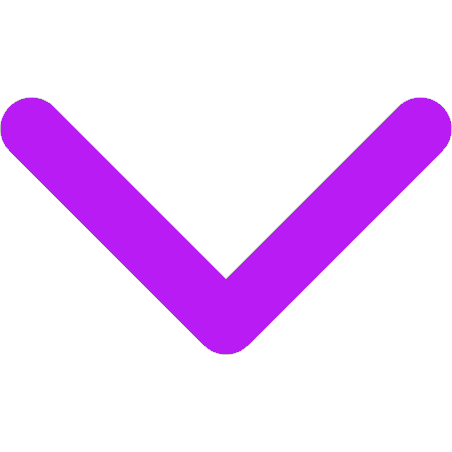
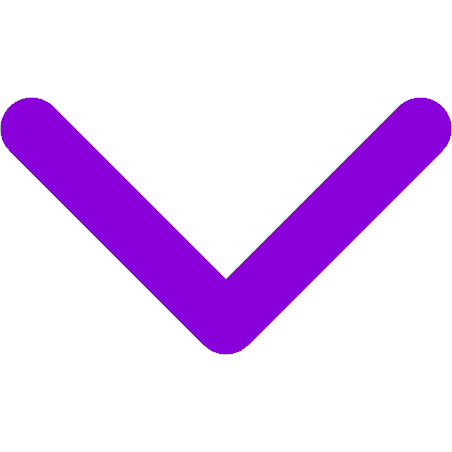
change arrows' color when attending

Changed region(s): [[0.0, 0.2168, 1.0, 0.8053]]

diff --git a/Frood/www/scripts/application.js b/Frood/www/scripts/application.js
@@ -10,7 +10,8 @@ angular.module('SteroidsApplication', [
           loc: "The Lakefill",
           time: "Sep 30, 6:00 p.m.",
           foodType: "BBQ",
-          icon:"images/bbq.png",
+          icon: "images/bbq.png",
+          arrow: "down.png",
           desc: "Come join Graduate EECS for friends and food at the Lakefill",
           fbUrl: "https://www.facebook.com/events/1676750769228818/",
           show: false,
@@ -22,7 +23,8 @@ angular.module('SteroidsApplication', [
           loc: "Parkes Hall 034",
           time: "Oct 1, 8:45 p.m.",
           foodType: "Pizza",
-          icon:"images/pizza.png",
+          icon: "images/pizza.png",
+          arrow: "down.png",
           desc: "Come on Wednesdays to meet awesome people and learn one of the most beautiful dances in the world.",
           fbUrl: "https://www.facebook.com/events/1676750769228818/",
           show: false,
@@ -34,7 +36,8 @@ angular.module('SteroidsApplication', [
           loc: " University Library",
           time: "Sep 28, 10:00 a.m.",
           foodType: "Pizza",
-          icon:"images/pizza.png",
+          icon: "images/pizza.png",
+          arrow: "down.png",
           desc: "Find the Pokemon we've hidden around University Library and snap their pictures for a free T-Shirt.",
           fbUrl: "https://www.facebook.com/events/1676750769228818/",
           show: false,
@@ -46,7 +49,8 @@ angular.module('SteroidsApplication', [
           loc: "The Garage",
           time: "Sep 28, 7:00 p.m.",
           foodType: "Sushi",
-          icon:"images/sushi.png",
+          icon: "images/sushi.png",
+          arrow: "down.png",
           desc: "Know the basics but aren't too sure on how to make your beautiful website public to the world? Come to our first Hack Night of the year to get started with web development!",
           fbUrl: "https://www.facebook.com/events/1676750769228818/",
           show: false,
@@ -57,7 +61,8 @@ angular.module('SteroidsApplication', [
           loc: "Tech LR2",
           time: "Oct 10, 7:30 p.m.",
           foodType: "Chinese",
-          icon:"images/chinese.png",
+          icon: "images/chinese.png",
+          arrow: "down.png",
           desc: "Interested in a career at Boeing? Come check us out at our only Northwestern Info Session! Stop by to meet some of our team and some free Joyees!",
           fbUrl: "https://www.facebook.com/events/1676750769228818/",
           show: false,
@@ -85,4 +90,11 @@ angular.module('SteroidsApplication', [
     }
   }
 
+  $scope.changeArrowColor = function (ev) {
+      if (ev.arrow == "down.png") {
+          ev.arrow = "down2.png";
+      } else {
+          ev.arrow = "down.png";
+      }
+  }
 });

diff --git a/Frood/www/index.html b/Frood/www/index.html
@@ -84,7 +84,7 @@
             </div>
 
             <div>
-                <button ng-click="going = !going; (going)?event.attending = event.attending + 1:event.attending = event.attending - 1;" ng-init="going = false">
+                <button ng-click="going = !going; (going)?event.attending = event.attending + 1:event.attending = event.attending - 1; changeArrowColor(event)" ng-init="going = false">
                     Change RSVP
                 </button>
             </div>
@@ -92,13 +92,12 @@
 
       </div>
     </div>
+
     <div class="row">
         <div class="col-md-2" ng-click="event.show = !event.show">
-            <img ng-src="images/down.png" ng-class="event.show ? 'rotate180' : 'rotate0'" style="height: 15px; position:relative; top:5px; left:300px" />
+            <img ng-src="images/{{event.arrow}}" ng-class="event.show ? 'rotate180' : 'rotate0'" style="height: 15px; position:relative; top:5px; left:300px" />
         </div>
     </div>
-
-
 
 </div>
 
